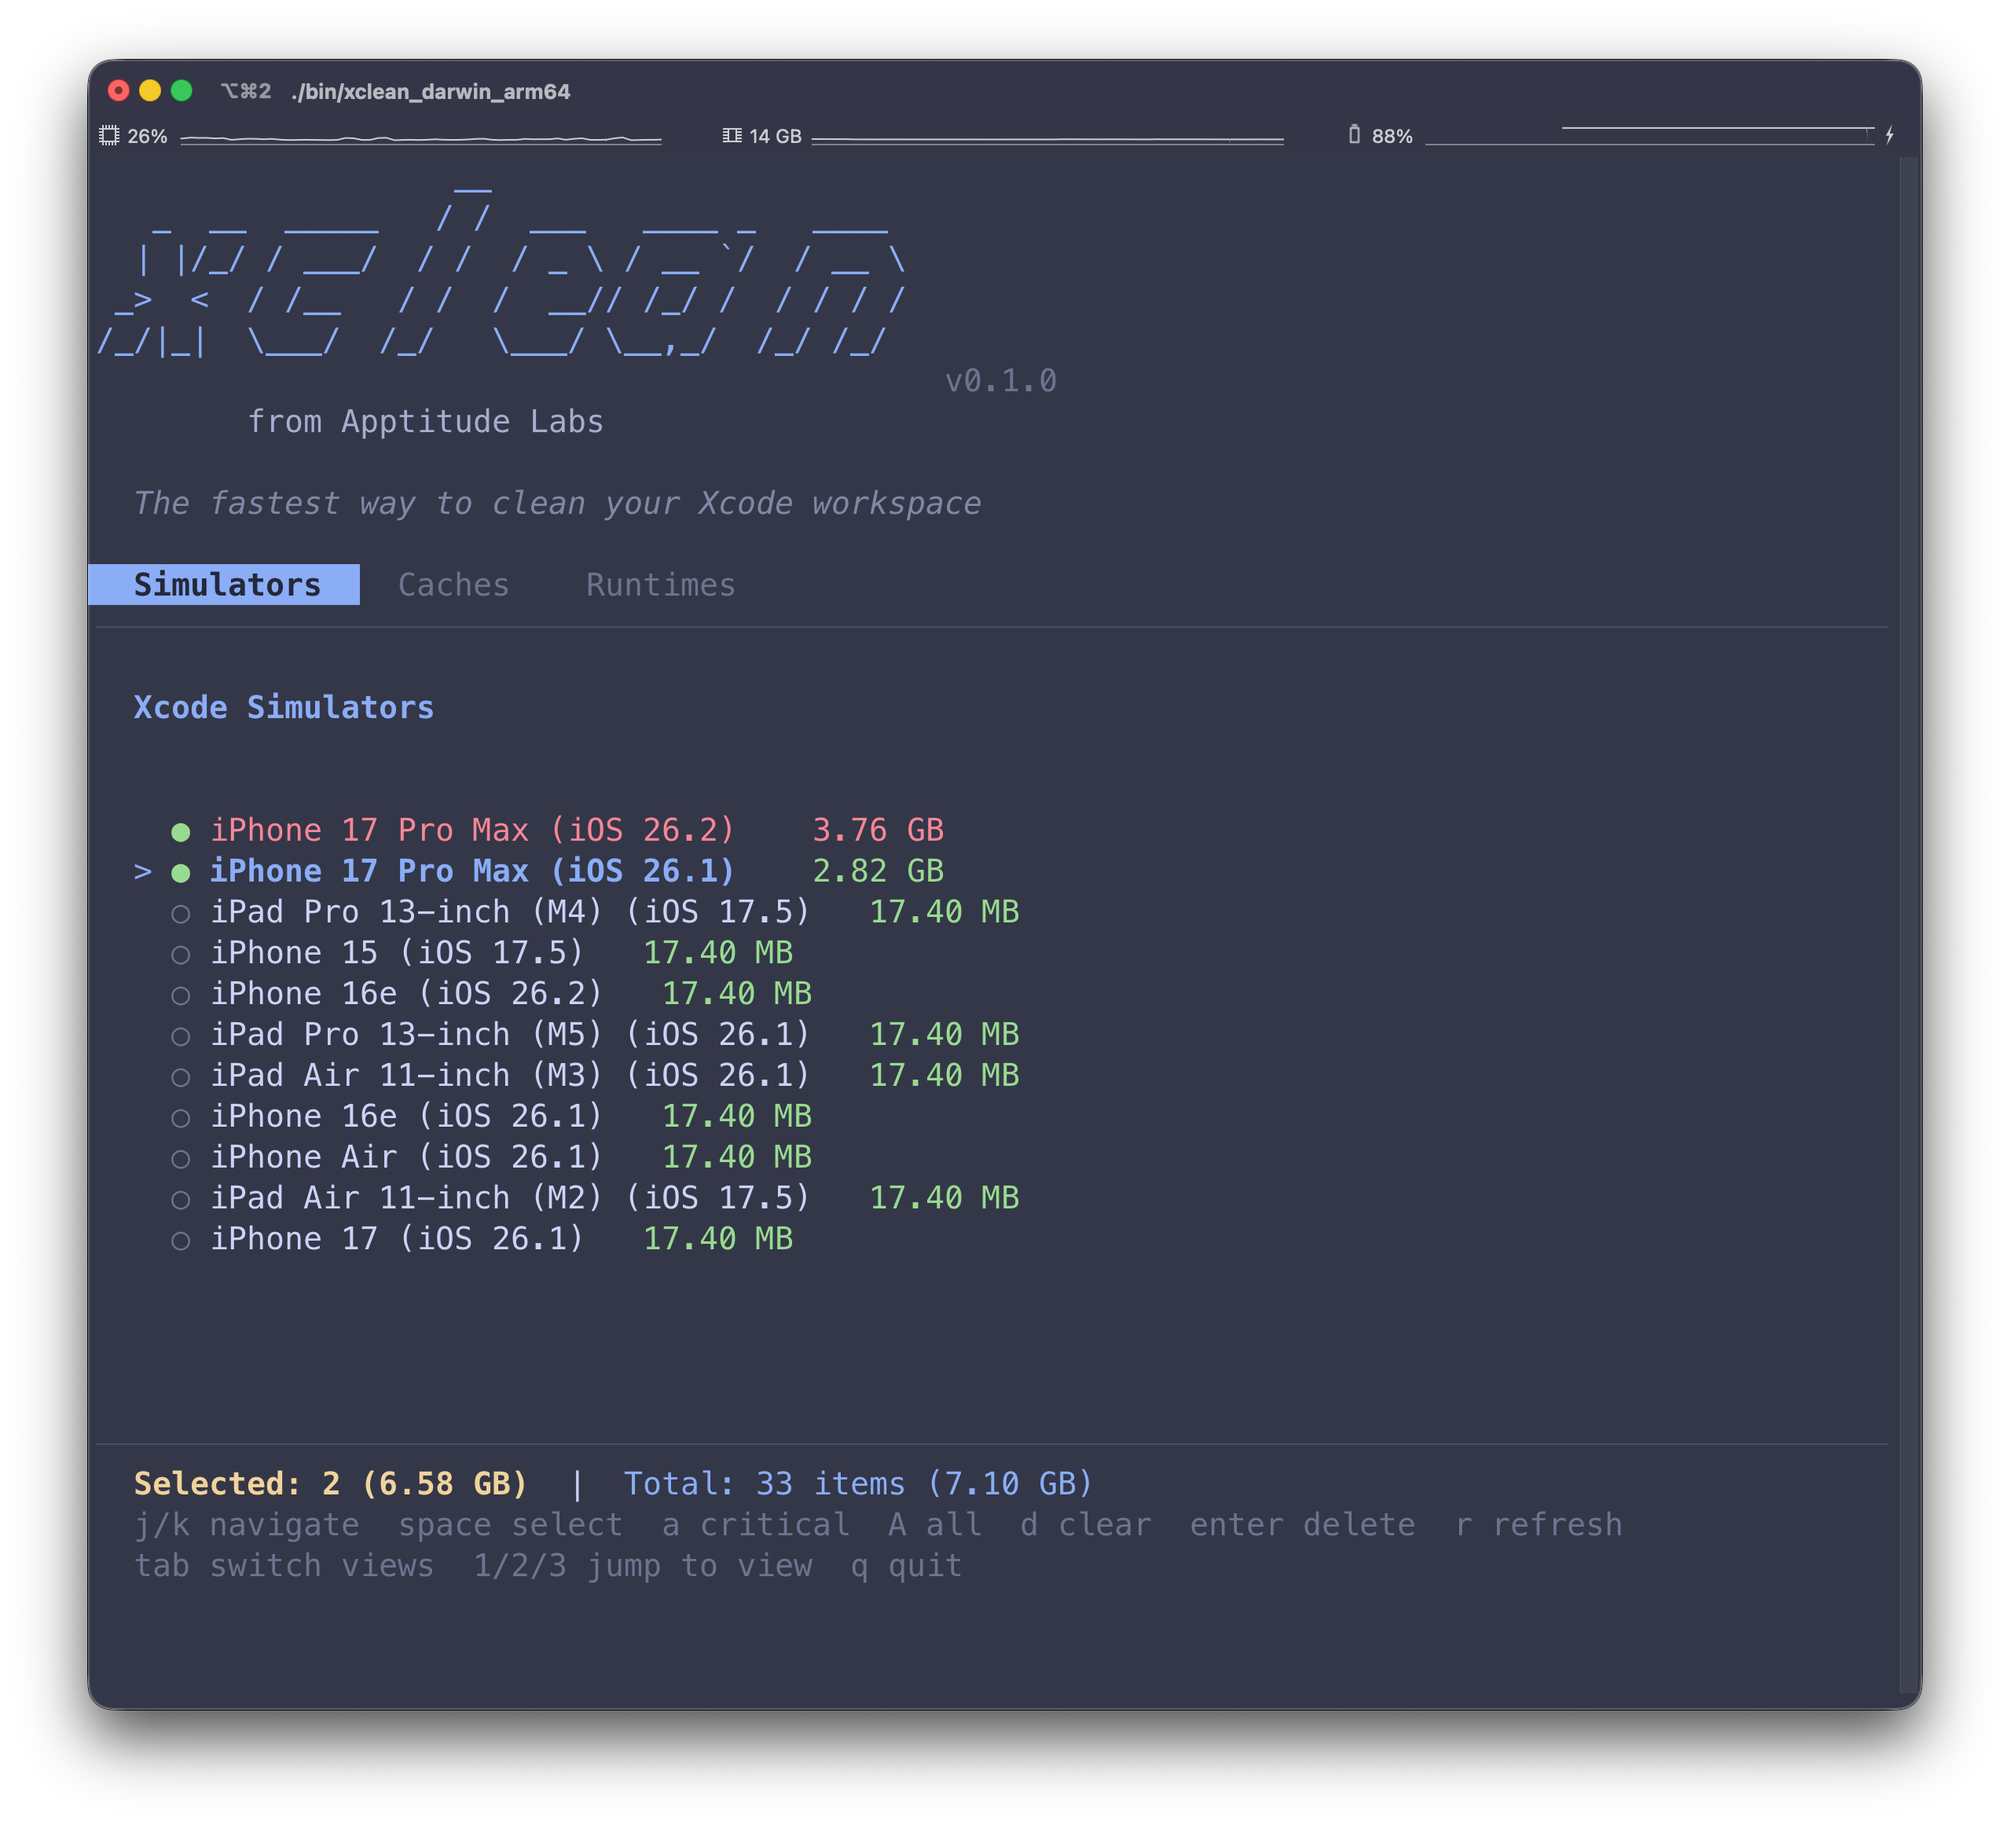
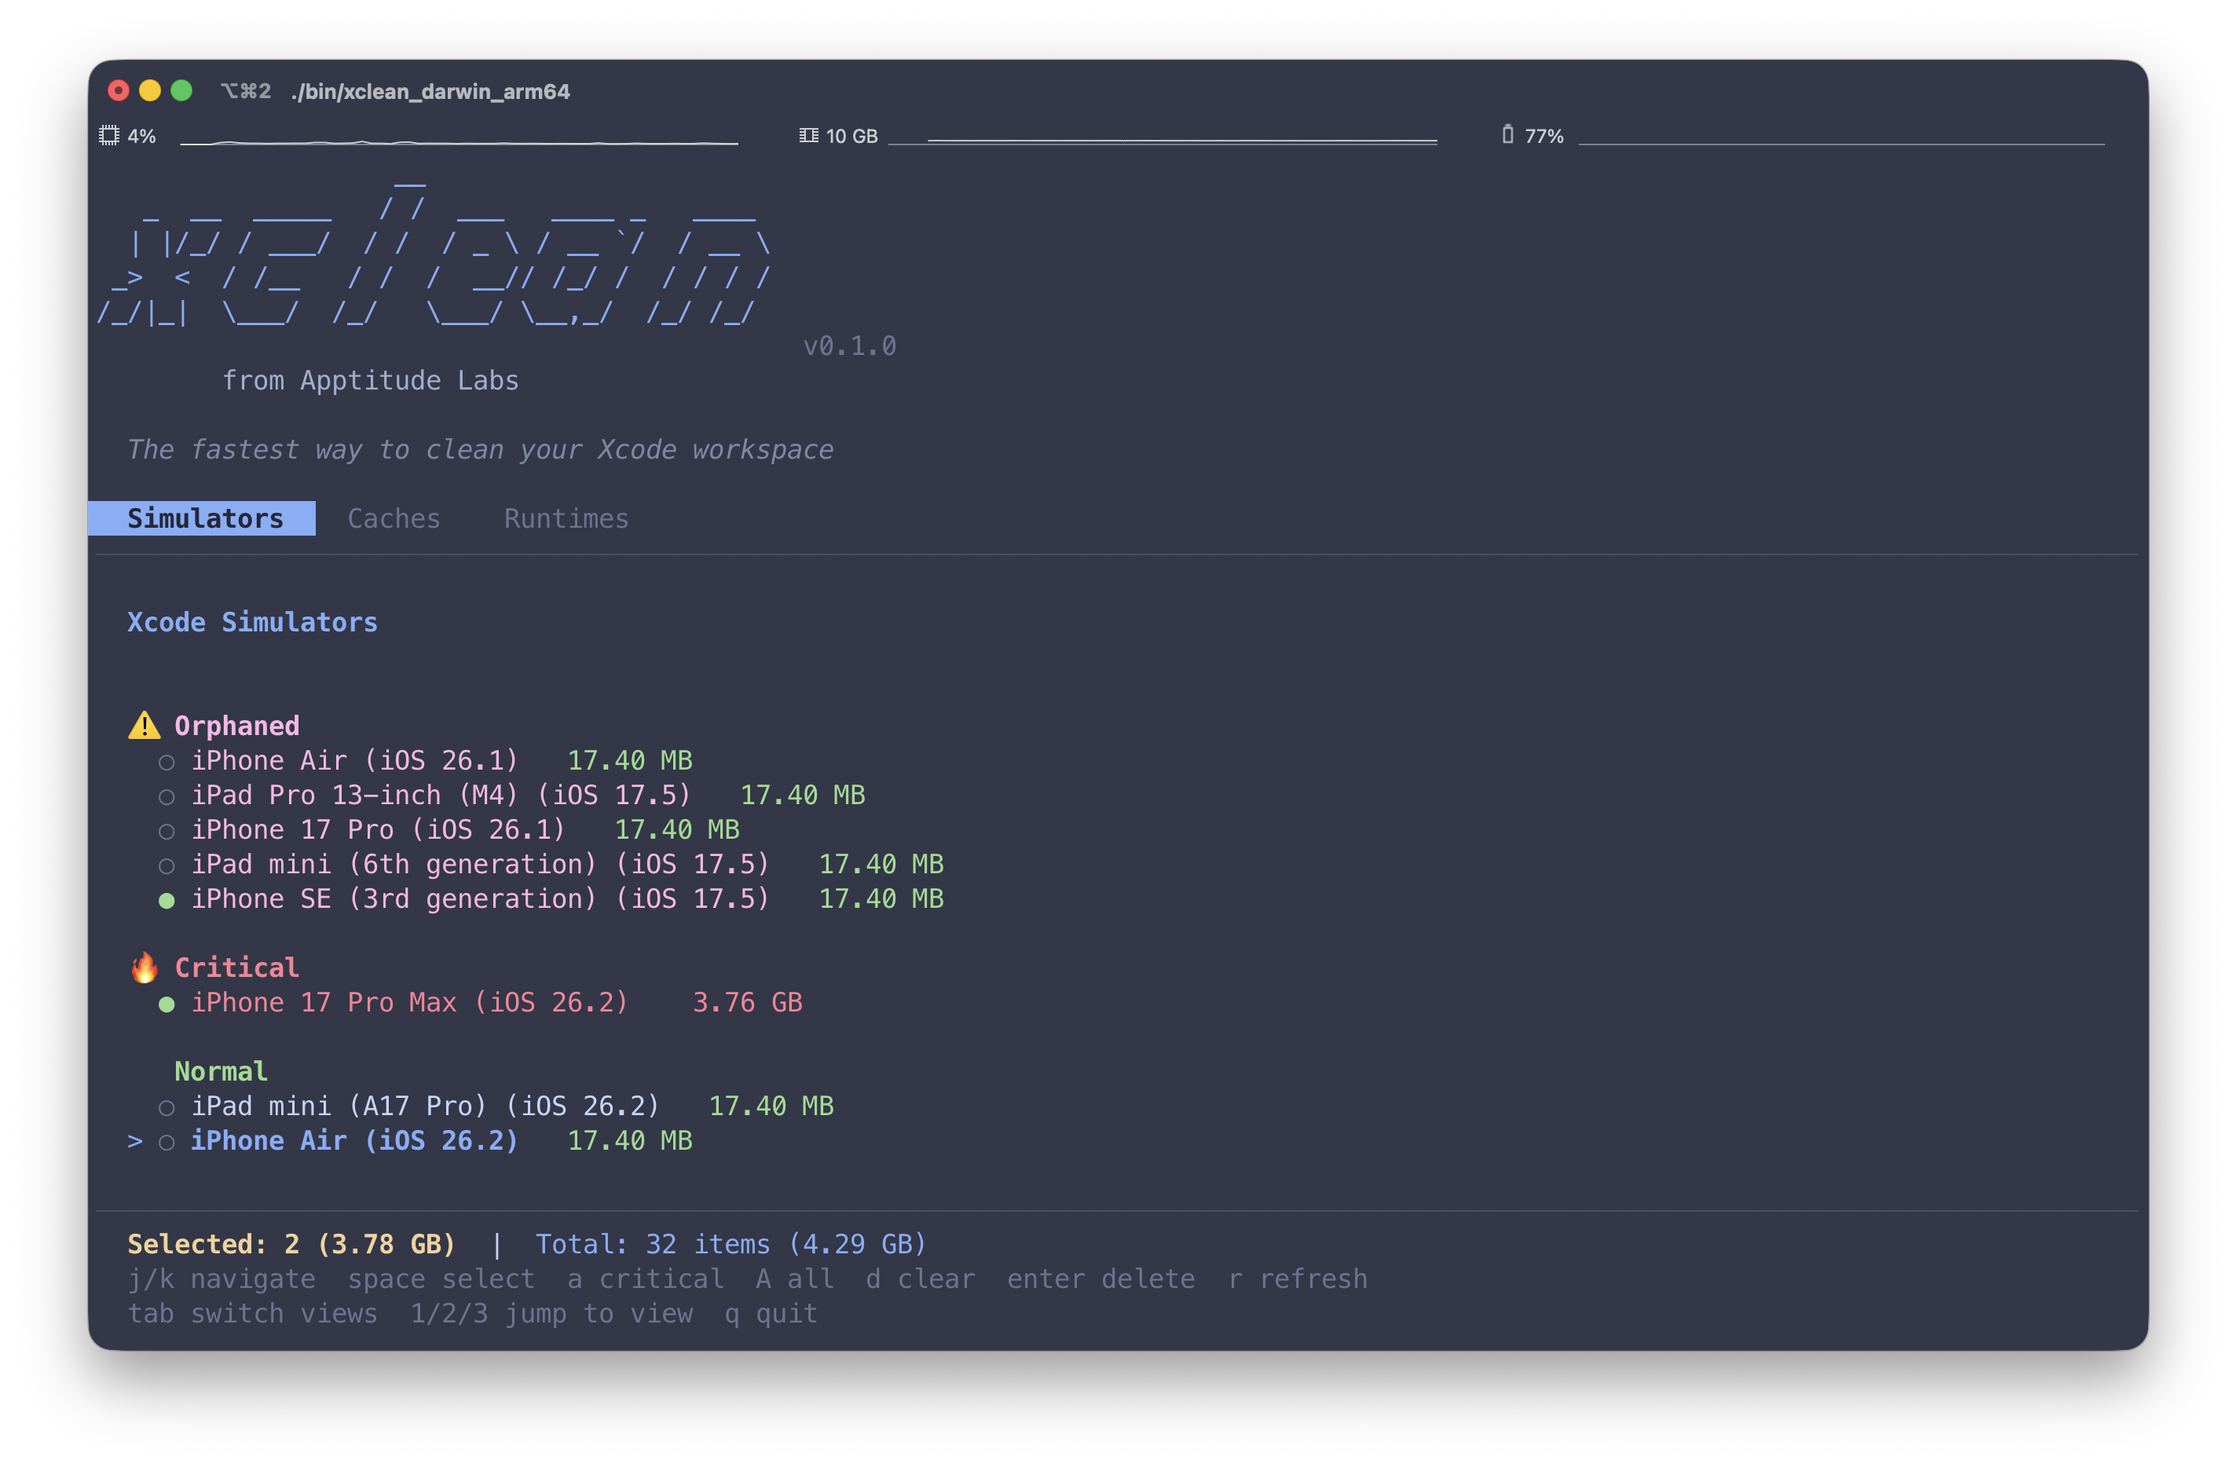
Updating xclean to show orphaned items

diff --git a/utils/size.go b/utils/size.go
@@ -17,9 +17,10 @@ import (
 )
 
 type SimulatorInfo struct {
-	Name string
-	Size int64
-	UDID string
+	Name       string
+	Size       int64
+	UDID       string
+	IsOrphaned bool
 }
 
 func CalculateDirSize(root string) int64 {
@@ -59,17 +60,23 @@ func CalculateDirSize(root string) int64 {
 }
 
 type Device struct {
-	Name    string `json:"name"`
-	UDID    string `json:"udid"`
-	Runtime string `json:"runtime"`
-	State   string `json:"state"`
+	Name        string `json:"name"`
+	UDID        string `json:"udid"`
+	Runtime     string `json:"runtime"`
+	State       string `json:"state"`
+	IsAvailable bool   `json:"isAvailable"`
 }
 
 type Devices struct {
 	Devices map[string][]Device `json:"devices"`
 }
 
-func GetSimFriendlyNames() map[string]string {
+type SimNameInfo struct {
+	Name       string
+	IsOrphaned bool
+}
+
+func GetSimFriendlyNames() map[string]SimNameInfo {
 	out, err := exec.Command("xcrun", "simctl", "list", "--json", "devices").Output()
 	if err != nil {
 		fmt.Println("Failed to run simctl:", err)
@@ -79,7 +86,7 @@ func GetSimFriendlyNames() map[string]string {
 	var sims Devices
 	json.Unmarshal(out, &sims)
 
-	nameMap := make(map[string]string)
+	nameMap := make(map[string]SimNameInfo)
 	for runtime, devices := range sims.Devices {
 		simplifiedRuntime := strings.TrimPrefix(runtime, "com.apple.CoreSimulator.SimRuntime.")
 		parts := strings.SplitN(simplifiedRuntime, "-", 2)
@@ -89,7 +96,14 @@ func GetSimFriendlyNames() map[string]string {
 			simplifiedRuntime = fmt.Sprintf("%s %s", platform, version)
 		}
 		for _, dev := range devices {
-			nameMap[dev.UDID] = fmt.Sprintf("%s (%s)", dev.Name, simplifiedRuntime)
+			displayName := fmt.Sprintf("%s (%s)", dev.Name, simplifiedRuntime)
+			if !dev.IsAvailable {
+				displayName = fmt.Sprintf("Orphaned %s (%s)", dev.Name, simplifiedRuntime)
+			}
+			nameMap[dev.UDID] = SimNameInfo{
+				Name:       displayName,
+				IsOrphaned: !dev.IsAvailable,
+			}
 		}
 	}
 	return nameMap
@@ -100,10 +114,18 @@ func ListSimulators(showAll, showCriticalOnly bool, thresholdGB int, outputFile 
 
 	criticalSims, normalSims := splitSimulators(sims, thresholdGB)
 
+	// Count orphaned simulators
+	orphanedCount := 0
+	for _, sim := range sims {
+		if sim.IsOrphaned {
+			orphanedCount++
+		}
+	}
+
 	var out strings.Builder
 
 	printSimulators(criticalSims, normalSims, &out)
-	printSummary(totalSize, biggestSim, len(criticalSims), len(normalSims), &out)
+	printSummary(totalSize, biggestSim, len(criticalSims), len(normalSims), orphanedCount, &out)
 
 	if outputFile != "" {
 		err := os.WriteFile(outputFile, []byte(out.String()), 0644)
@@ -148,15 +170,21 @@ func gatherSimulators(showAll, showCriticalOnly bool) ([]SimulatorInfo, int64, S
 			continue
 		}
 
-		friendlyName, found := nameMap[uuid]
-		if !found {
-			friendlyName = uuid
+		var friendlyName string
+		var isOrphaned bool
+		if info, found := nameMap[uuid]; found {
+			friendlyName = info.Name
+			isOrphaned = info.IsOrphaned
+		} else {
+			friendlyName = fmt.Sprintf("Orphaned (%s)", uuid)
+			isOrphaned = true
 		}
 
 		sim := SimulatorInfo{
-			Name: friendlyName,
-			Size: size,
-			UDID: uuid,
+			Name:       friendlyName,
+			Size:       size,
+			UDID:       uuid,
+			IsOrphaned: isOrphaned,
 		}
 
 		sims = append(sims, sim)
@@ -211,7 +239,10 @@ func printSimulators(criticalSims, normalSims []SimulatorInfo, out *strings.Buil
 		out.WriteString("CRITICAL Simulators:\n")
 		for _, sim := range criticalSims {
 			line := fmt.Sprintf("CRITICAL: %s — %.2f GB\n", sim.Name, float64(sim.Size)/(1<<30))
-			if sim.Size > 10<<30 {
+			if sim.IsOrphaned {
+				color.New(color.FgHiYellow, color.Bold).Print("⚠  " + line)
+				out.WriteString("⚠  " + line)
+			} else if sim.Size > 10<<30 {
 				color.New(color.FgHiRed, color.Bold).Print("🔥 " + line)
 				out.WriteString("🔥 " + line)
 			} else {
@@ -228,15 +259,20 @@ func printSimulators(criticalSims, normalSims []SimulatorInfo, out *strings.Buil
 		out.WriteString("Normal Simulators:\n")
 		for _, sim := range normalSims {
 			line := fmt.Sprintf("%s — %.2f GB\n", sim.Name, float64(sim.Size)/(1<<30))
-			color.Green(line)
-			out.WriteString(line)
+			if sim.IsOrphaned {
+				color.Yellow("⚠  " + line)
+				out.WriteString("⚠  " + line)
+			} else {
+				color.Green(line)
+				out.WriteString(line)
+			}
 		}
 		fmt.Println()
 		out.WriteString("\n")
 	}
 }
 
-func printSummary(totalSize int64, biggestSim SimulatorInfo, criticalCount, normalCount int, out *strings.Builder) {
+func printSummary(totalSize int64, biggestSim SimulatorInfo, criticalCount, normalCount, orphanedCount int, out *strings.Builder) {
 	fmt.Println()
 
 	if biggestSim.Size > 10<<30 {
@@ -251,8 +287,13 @@ func printSummary(totalSize int64, biggestSim SimulatorInfo, criticalCount, norm
 	out.WriteString(fmt.Sprintf("\n📱 Total Simulator Space Used: %.2f GB\n", float64(totalSize)/(1<<30)))
 
 	fmt.Println()
-	color.Cyan("Summary: %d Critical Sims, %d Normal Sims", criticalCount, normalCount)
-	out.WriteString(fmt.Sprintf("Summary: %d Critical Sims, %d Normal Sims\n", criticalCount, normalCount))
+	if orphanedCount > 0 {
+		color.Cyan("Summary: %d Critical Sims, %d Normal Sims, %d Orphaned (runtime unavailable)", criticalCount, normalCount, orphanedCount)
+		out.WriteString(fmt.Sprintf("Summary: %d Critical Sims, %d Normal Sims, %d Orphaned (runtime unavailable)\n", criticalCount, normalCount, orphanedCount))
+	} else {
+		color.Cyan("Summary: %d Critical Sims, %d Normal Sims", criticalCount, normalCount)
+		out.WriteString(fmt.Sprintf("Summary: %d Critical Sims, %d Normal Sims\n", criticalCount, normalCount))
+	}
 }
 
 func interactiveClean(sims []SimulatorInfo) {

diff --git a/tui/components/list.go b/tui/components/list.go
@@ -15,7 +15,9 @@ type ListItem struct {
 	Subtitle   string
 	Size       int64
 	IsCritical bool
+	IsOrphaned bool
 	Selected   bool
+	Section    string // Group/section name for grouped lists
 }
 
 // List is a selectable list component with multi-select support
@@ -233,9 +235,34 @@ func (l List) View() string {
 		end = len(l.Items)
 	}
 
+	currentSection := ""
 	for i := start; i < end; i++ {
 		item := l.Items[i]
 		isActive := i == l.cursor && l.focused
+
+		// Render section header if section changed
+		if item.Section != "" && item.Section != currentSection {
+			currentSection = item.Section
+			if b.Len() > 0 {
+				b.WriteString("\n") // Extra spacing between sections
+			}
+			headerStyle := lipgloss.NewStyle().
+				Bold(true).
+				Foreground(lipgloss.Color("#cad3f5")).
+				MarginBottom(0)
+			// Section-specific colors
+			switch item.Section {
+			case "Orphaned":
+				headerStyle = headerStyle.Foreground(lipgloss.Color("#f4b8e4"))
+				b.WriteString(headerStyle.Render("⚠  "+item.Section) + "\n")
+			case "Critical":
+				headerStyle = headerStyle.Foreground(lipgloss.Color("#ed8796"))
+				b.WriteString(headerStyle.Render("🔥 "+item.Section) + "\n")
+			default:
+				headerStyle = headerStyle.Foreground(lipgloss.Color("#a6da95"))
+				b.WriteString(headerStyle.Render("   "+item.Section) + "\n")
+			}
+		}
 
 		// Build the line
 		var line strings.Builder
@@ -258,7 +285,13 @@ func (l List) View() string {
 
 		// Title
 		titleStyle := lipgloss.NewStyle()
-		if item.IsCritical {
+		if item.IsOrphaned {
+			if isActive {
+				titleStyle = titleStyle.Foreground(lipgloss.Color("#f4b8e4")).Bold(true)
+			} else {
+				titleStyle = titleStyle.Foreground(lipgloss.Color("#f4b8e4"))
+			}
+		} else if item.IsCritical {
 			if isActive {
 				titleStyle = titleStyle.Foreground(lipgloss.Color("#ed8796")).Bold(true)
 			} else {

diff --git a/tui/views/simulators.go b/tui/views/simulators.go
@@ -82,23 +82,48 @@ func LoadSimulators() tea.Msg {
 			continue
 		}
 
-		friendlyName, found := nameMap[uuid]
-		if !found {
-			friendlyName = uuid
+		var friendlyName string
+		var isOrphaned bool
+		if info, found := nameMap[uuid]; found {
+			friendlyName = info.Name
+			isOrphaned = info.IsOrphaned
+			// Strip "Orphaned " prefix since we show it in section header
+			if isOrphaned {
+				friendlyName = strings.TrimPrefix(friendlyName, "Orphaned ")
+			}
+		} else {
+			friendlyName = uuid // Just show UUID, section header shows "Orphaned"
+			isOrphaned = true
 		}
 
 		isCritical := size >= 3<<30 // 3GB threshold
+
+		// Determine section
+		var section string
+		if isOrphaned {
+			section = "Orphaned"
+		} else if isCritical {
+			section = "Critical"
+		} else {
+			section = "Normal"
+		}
 
 		items = append(items, components.ListItem{
 			ID:         uuid,
 			Title:      friendlyName,
 			Size:       size,
 			IsCritical: isCritical,
+			IsOrphaned: isOrphaned,
+			Section:    section,
 		})
 	}
 
-	// Sort by size descending
+	// Sort by section (Orphaned > Critical > Normal), then by size descending
+	sectionOrder := map[string]int{"Orphaned": 0, "Critical": 1, "Normal": 2}
 	sort.Slice(items, func(i, j int) bool {
+		if sectionOrder[items[i].Section] != sectionOrder[items[j].Section] {
+			return sectionOrder[items[i].Section] < sectionOrder[items[j].Section]
+		}
 		return items[i].Size > items[j].Size
 	})
 

diff --git a/cmd/cleansims.go b/cmd/cleansims.go
@@ -40,9 +40,11 @@ var cleanSimsCmd = &cobra.Command{
 			size := utils.CalculateDirSize(dataPath)
 
 			if size > 2<<30 {
-				name := nameMap[uuid]
-				if name == "" {
-					name = uuid
+				var name string
+				if info, found := nameMap[uuid]; found {
+					name = info.Name
+				} else {
+					name = fmt.Sprintf("Orphaned (%s)", uuid)
 				}
 				toDelete = append(toDelete, struct {
 					path string

diff --git a/README.md b/README.md
@@ -8,7 +8,8 @@
 
 - 🖥 **Interactive TUI** — Beautiful terminal UI with tabs for Simulators, Caches, and Runtimes
 - 🧹 **Clean** DerivedData, Archives, ModuleCache, SwiftPM Cache
-- 📱 **List simulators** with storage usage
+- 📱 **List simulators** with storage usage, grouped by status
+- ⚠ **Orphaned simulator detection** — Identifies simulators whose runtime was deleted
 - 📈 **Highlight critical simulators** (above 3GB or your threshold)
 - 🧹 **List and remove runtimes**
 - 🔄 **Interactive cleanup** of large simulators
@@ -47,10 +48,20 @@ xclean
 | `Tab` | Switch to next view |
 | `Shift+Tab` | Switch to previous view |
 | `1` / `2` / `3` | Jump to Simulators / Caches / Runtimes |
-| `↑` / `↓` | Navigate list |
-| `Enter` | Select / Confirm |
-| `d` | Delete selected item |
+| `j` / `k` or `↑` / `↓` | Navigate list |
+| `Space` | Toggle selection |
+| `a` | Select all critical items |
+| `A` | Select all items |
+| `d` | Clear selection |
+| `Enter` | Delete selected items |
+| `r` | Refresh list |
 | `q` | Quit |
+
+**Simulator grouping:**
+Simulators are organized into three sections:
+- ⚠ **Orphaned** — Simulators whose runtime is no longer available (safe to delete)
+- 🔥 **Critical** — Simulators using more than 3GB
+- **Normal** — All other simulators
 
 ---
 
